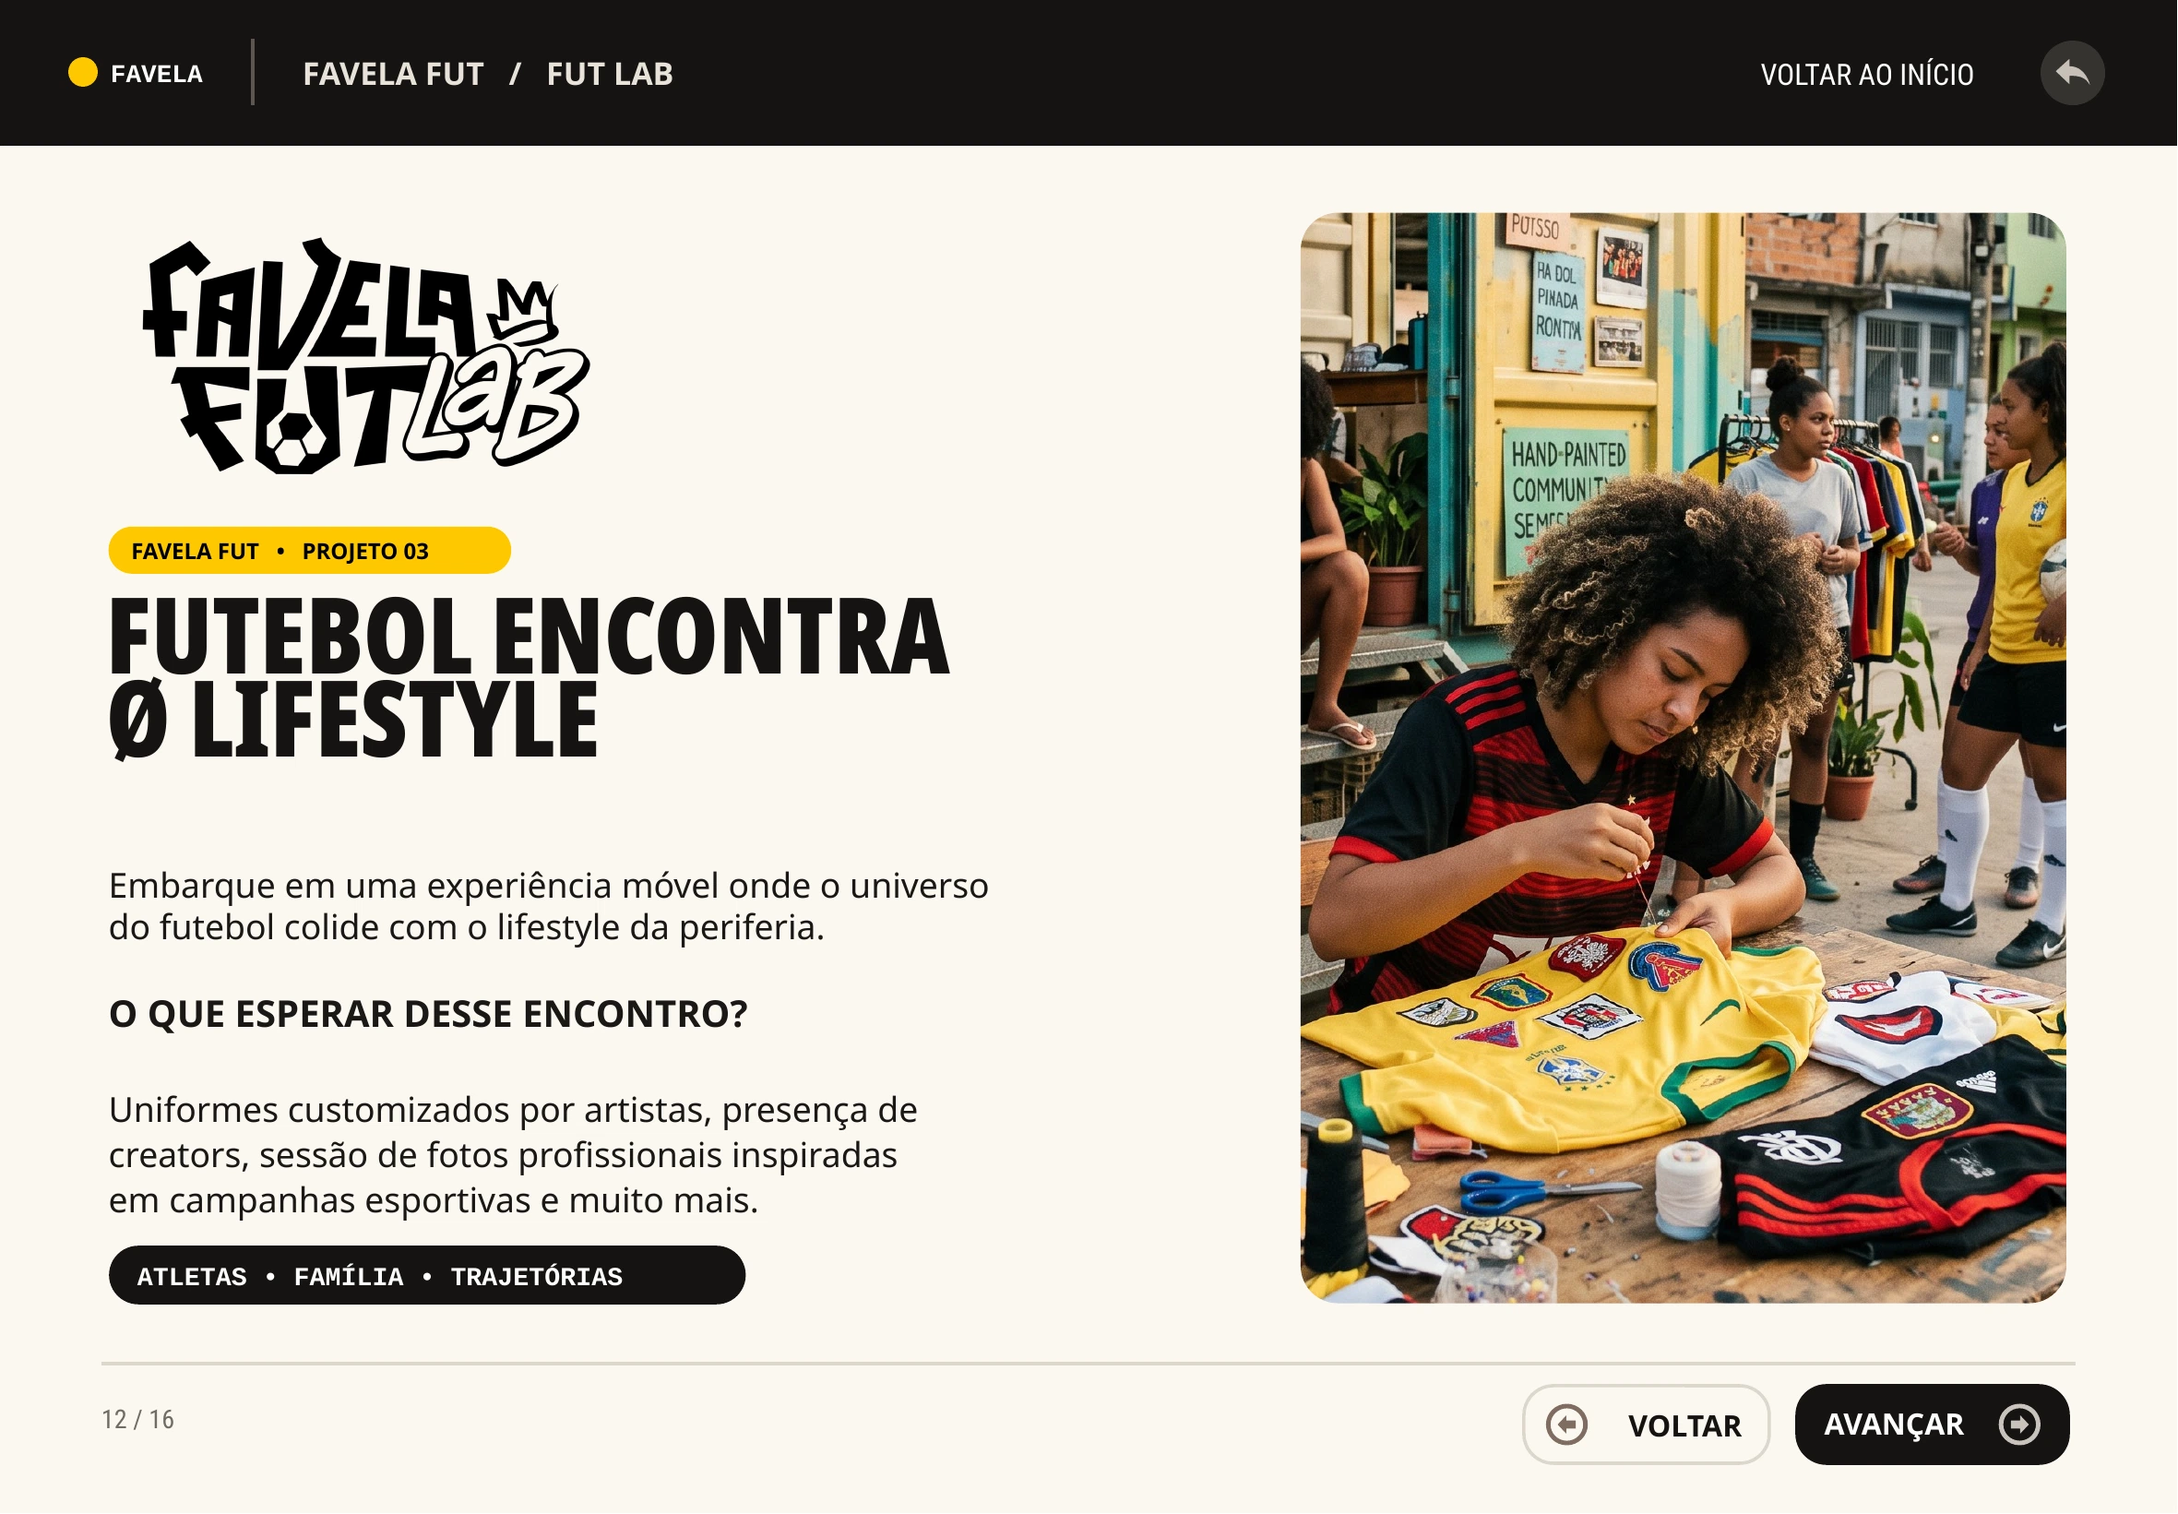
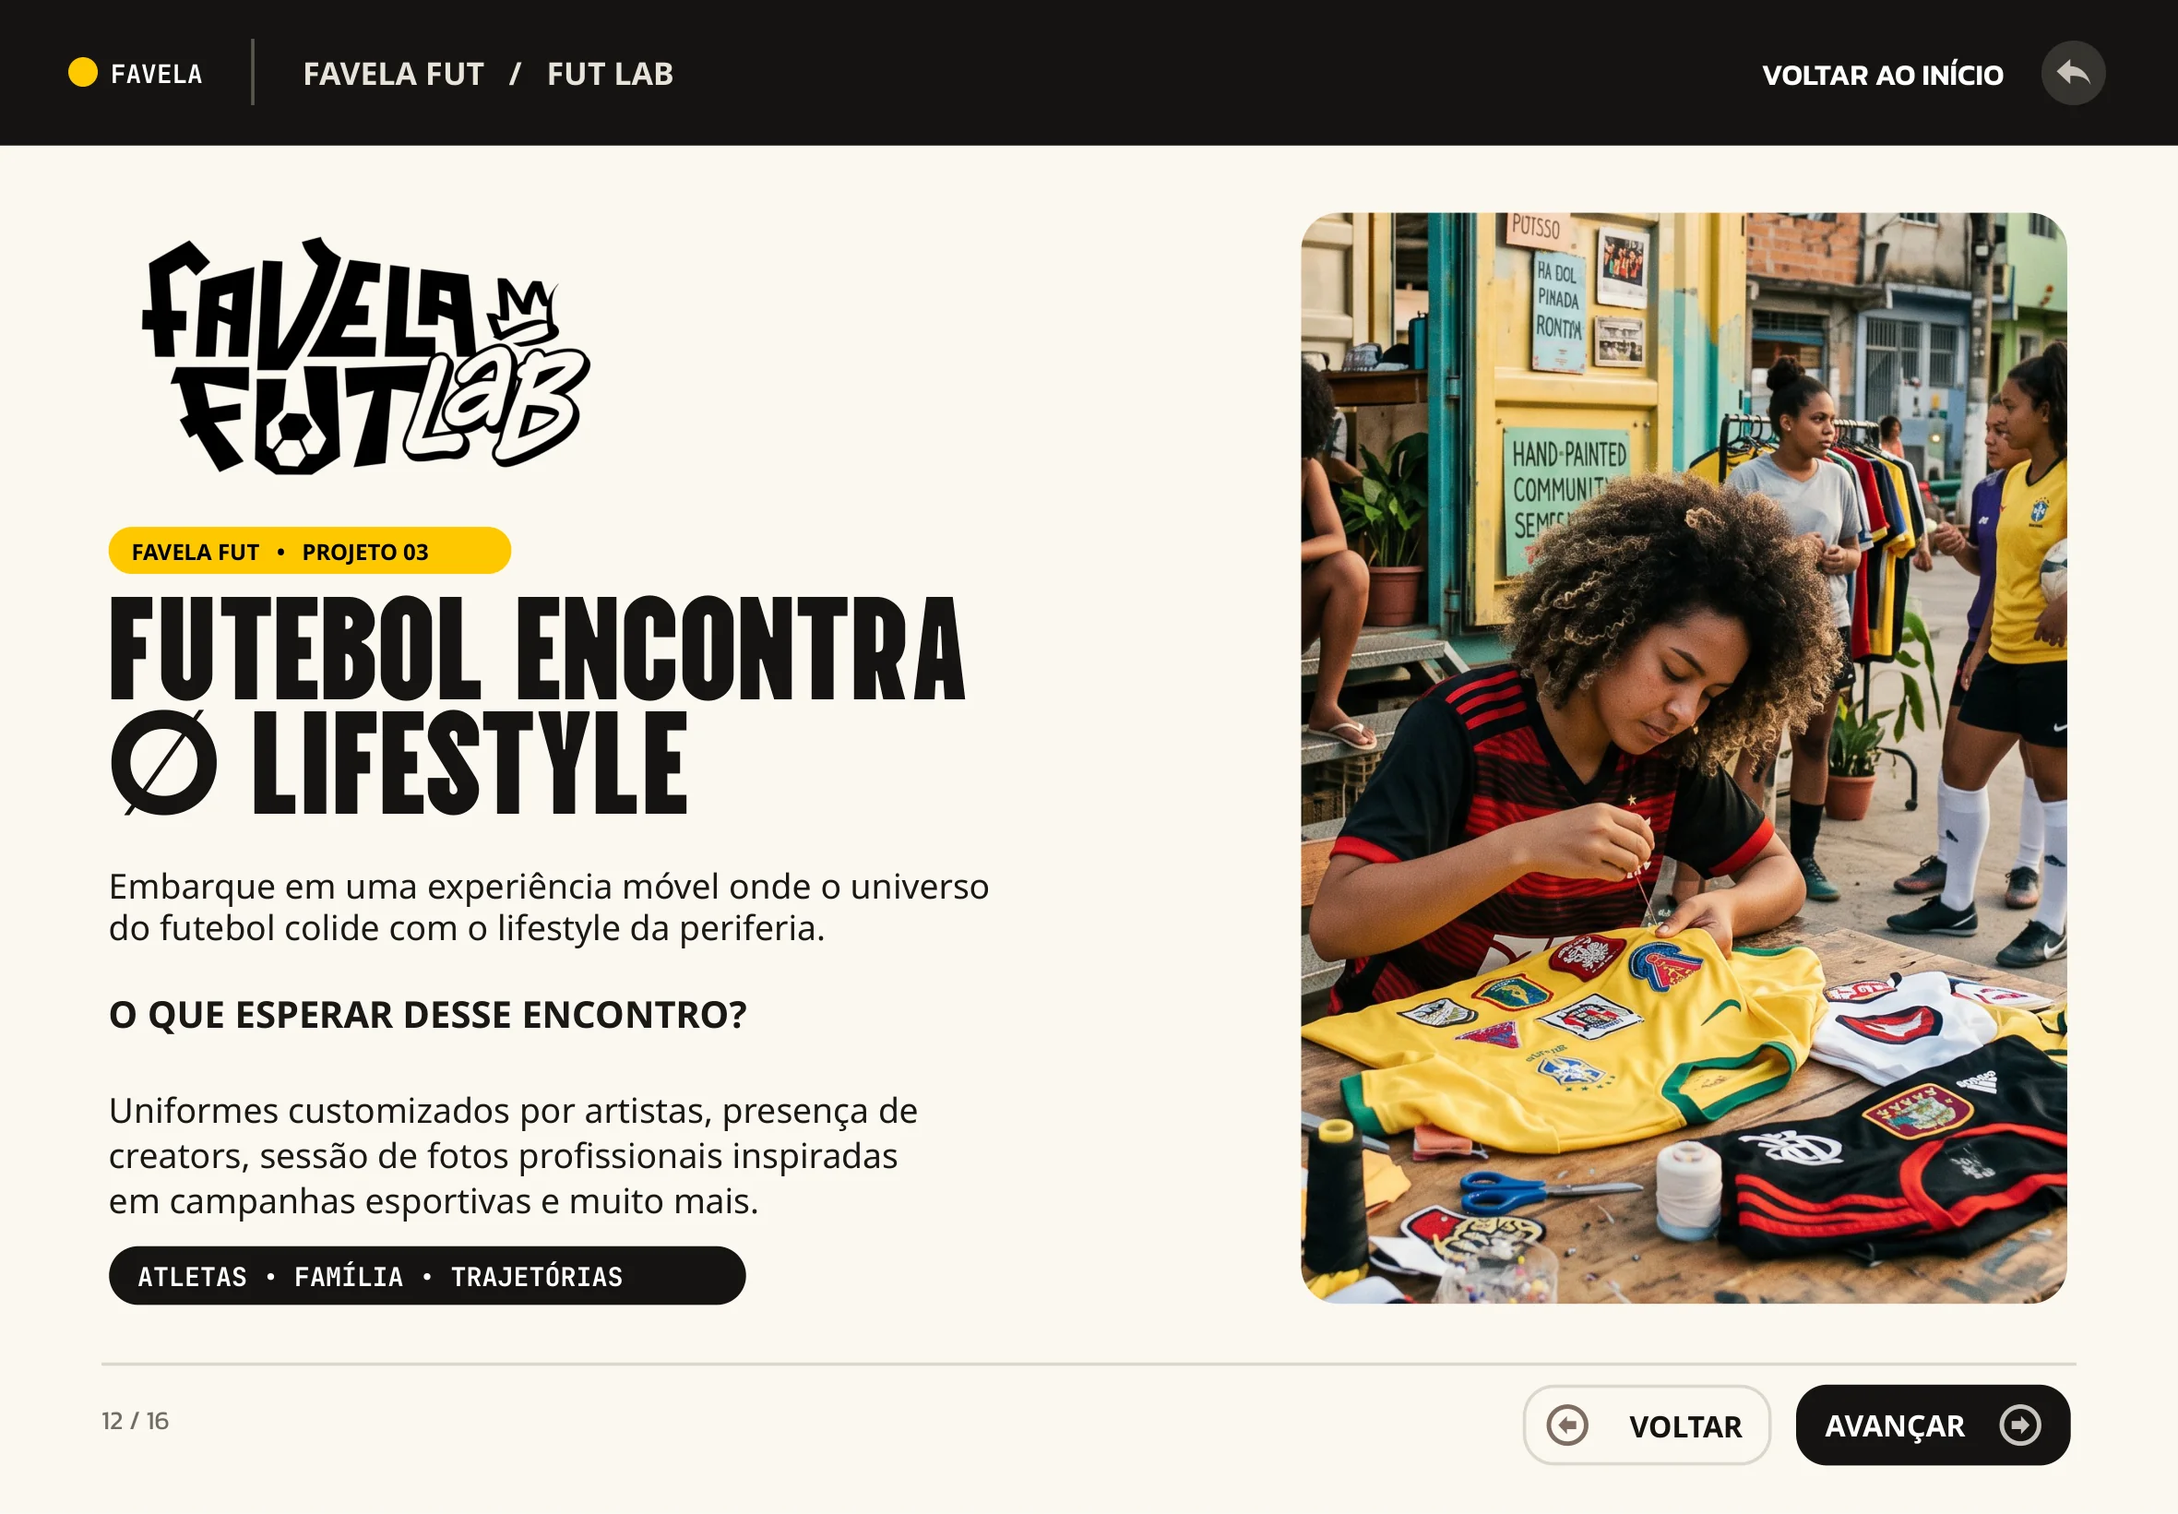
feat: restore Vina Sans and add subtle UI motion (showcase v2)

diff --git a/app.js b/app.js
@@ -1,10 +1,11 @@
 /*
- * Favela • Interactive Showcase
- * Apresentação sem dependências externas, pronta para Netlify e iPad.
- * Os hotspots de cada tela podem ser editados no arquivo slides.js.
+ * Favela • Interactive Showcase v2
+ * Telas fiéis ao PPTX e microinterações leves, 100% locais.
+ * As áreas clicáveis ficam em slides.js.
  */
 (() => {
   'use strict';
+
   const slides = window.SHOWCASE_SLIDES || [];
   const image = document.getElementById('slideImage');
   const stage = document.getElementById('stage');
@@ -13,15 +14,17 @@
   const connectionStatus = document.getElementById('connectionStatus');
   if (!slides.length || !image || !stage || !hotspots) return;
 
-  // Configurações: 180 segundos sem interação levam de volta à abertura.
-  // Ajuste para 0 se não quiser retorno automático.
   const AUTO_RESET_SECONDS = 180;
   const ENABLE_SWIPE = true;
   const ENABLE_KEYBOARD = true;
+  const MOTION_DURATION_MS = 280;
+  const reducedMotion = window.matchMedia('(prefers-reduced-motion: reduce)');
+
   let currentIndex = 0;
   let idleTimer = null;
   let imageSwitch = 0;
   let swipeStart = null;
+  let ghost = null;
 
   const clamp = (value) => Math.min(slides.length - 1, Math.max(0, value));
   const getHashIndex = () => {
@@ -33,8 +36,7 @@
   const pathFor = (index) => slides[index]?.image;
 
   function loadNearby(index) {
-    const nextIndices = [index - 1, index + 1, 1];
-    nextIndices.forEach((candidate) => {
+    [index - 1, index + 1, 1].forEach((candidate) => {
       if (candidate < 0 || candidate >= slides.length) return;
       const preview = new Image();
       preview.src = pathFor(candidate);
@@ -50,6 +52,20 @@
     }, AUTO_RESET_SECONDS * 1000);
   }
 
+  function touchFeedback(event, kind) {
+    if (reducedMotion.matches || kind === 'feature') return;
+    const rect = stage.getBoundingClientRect();
+    const x = event.clientX - rect.left;
+    const y = event.clientY - rect.top;
+    if (!Number.isFinite(x) || !Number.isFinite(y)) return;
+    const ripple = document.createElement('span');
+    ripple.className = 'touch-ripple';
+    ripple.style.left = `${x}px`;
+    ripple.style.top = `${y}px`;
+    stage.appendChild(ripple);
+    ripple.addEventListener('animationend', () => ripple.remove(), { once: true });
+  }
+
   function setHotspots(page) {
     const fragment = document.createDocumentFragment();
     page.actions.forEach((action) => {
@@ -62,29 +78,72 @@
       control.style.top = `${action.y}%`;
       control.style.width = `${action.w}%`;
       control.style.height = `${action.h}%`;
+      control.addEventListener('pointerdown', (event) => touchFeedback(event, action.kind), { passive: true });
       control.addEventListener('click', () => navigateTo(action.go));
       fragment.appendChild(control);
     });
     hotspots.replaceChildren(fragment);
   }
 
+  function removeGhost() {
+    if (ghost) ghost.remove();
+    ghost = null;
+    image.classList.remove('motion-enter');
+    stage.classList.remove('is-transitioning');
+  }
+
+  function animateSlide(nextSrc, direction, switchToken, onComplete) {
+    const incoming = new Image();
+    let completed = false;
+    incoming.onload = () => {
+      if (switchToken !== imageSwitch || completed) return;
+      completed = true;
+      removeGhost();
+      const animate = !reducedMotion.matches && image.getAttribute('src') !== nextSrc;
+      if (animate) {
+        ghost = document.createElement('img');
+        ghost.src = image.getAttribute('src');
+        ghost.alt = '';
+        ghost.setAttribute('aria-hidden', 'true');
+        ghost.className = 'slide-image slide-image--ghost';
+        stage.insertBefore(ghost, image);
+        stage.dataset.direction = direction;
+        stage.classList.add('is-transitioning');
+      }
+      image.src = nextSrc;
+      onComplete();
+      if (animate) {
+        // Reinicia a animação de entrada mesmo após navegações rápidas.
+        void image.offsetWidth;
+        image.classList.add('motion-enter');
+        ghost.classList.add('motion-exit');
+        window.setTimeout(() => {
+          if (switchToken === imageSwitch) removeGhost();
+        }, MOTION_DURATION_MS + 70);
+      }
+    };
+    incoming.onerror = () => {
+      if (switchToken !== imageSwitch) return;
+      connectionStatus.textContent = 'Não foi possível carregar esta tela. Verifique os arquivos da publicação.';
+    };
+    incoming.src = nextSrc;
+    if (incoming.complete && incoming.naturalWidth) incoming.onload();
+  }
+
   function navigateTo(requestedIndex, options = {}) {
     const index = clamp(requestedIndex);
     const page = slides[index];
     if (!page) return;
+    const previousIndex = currentIndex;
     currentIndex = index;
-    imageSwitch += 1;
-    const thisSwitch = imageSwitch;
-
+    const switchToken = ++imageSwitch;
     const nextSrc = pathFor(index);
     const alt = `${page.title}. Tela ${page.id} de ${slides.length}.`;
-    image.alt = alt;
+
     document.title = `${page.title} | Favela Showcase`;
     document.body.dataset.section = page.section;
     transcript.textContent = `${alt} ${page.transcript || ''}`;
-    setHotspots(page);
 
-    // Usa #tela-01 para permitir compartilhar ou recuperar a tela atual.
     const newHash = `#tela-${String(index + 1).padStart(2, '0')}`;
     if (location.hash !== newHash) {
       if (options.pushHistory) history.pushState({}, '', newHash);
@@ -92,20 +151,15 @@
     }
 
     if (image.getAttribute('src') !== nextSrc) {
-      image.classList.add('is-changing');
-      const loader = new Image();
-      loader.onload = () => {
-        if (thisSwitch !== imageSwitch) return;
-        image.src = nextSrc;
-        requestAnimationFrame(() => image.classList.remove('is-changing'));
-      };
-      loader.onerror = () => {
-        if (thisSwitch !== imageSwitch) return;
-        image.src = nextSrc;
-        image.classList.remove('is-changing');
-        connectionStatus.textContent = 'Não foi possível carregar esta tela. Verifique os arquivos da publicação.';
-      };
-      loader.src = nextSrc;
+      const isSectionChange = index === 0 || index === 1 || [2, 7, 13].includes(index);
+      const direction = isSectionChange ? 'section' : (index >= previousIndex ? 'next' : 'previous');
+      animateSlide(nextSrc, direction, switchToken, () => {
+        image.alt = alt;
+        setHotspots(page);
+      });
+    } else {
+      image.alt = alt;
+      setHotspots(page);
     }
     loadNearby(index);
     resetInactivityTimer();
@@ -113,17 +167,16 @@
 
   if (ENABLE_KEYBOARD) {
     document.addEventListener('keydown', (event) => {
-      const key = event.key;
-      if (key === 'ArrowRight' || key === 'PageDown') {
+      if (event.key === 'ArrowRight' || event.key === 'PageDown') {
         if (currentIndex !== 1) navigateTo(currentIndex + 1);
         event.preventDefault();
-      } else if (key === 'ArrowLeft' || key === 'PageUp') {
+      } else if (event.key === 'ArrowLeft' || event.key === 'PageUp') {
         if (currentIndex > 0 && currentIndex !== 1) navigateTo(currentIndex - 1);
         event.preventDefault();
-      } else if (key === 'Escape' || key === 'Home') {
+      } else if (event.key === 'Escape' || event.key === 'Home') {
         navigateTo(1);
         event.preventDefault();
-      } else if ((key === 'Enter' || key === ' ') && currentIndex === 0 && document.activeElement === document.body) {
+      } else if ((event.key === 'Enter' || event.key === ' ') && currentIndex === 0 && document.activeElement === document.body) {
         navigateTo(1);
         event.preventDefault();
       }
@@ -142,14 +195,13 @@
       const dy = event.changedTouches[0].clientY - swipeStart.y;
       swipeStart = null;
       if (Math.abs(dx) < 55 || Math.abs(dx) < Math.abs(dy) * 1.25) return;
-      if (currentIndex === 1) return; // menu: navegue pelos cards
+      if (currentIndex === 1) return; // Menu principal: usar os três cards
       event.preventDefault();
       navigateTo(currentIndex + (dx < 0 ? 1 : -1));
     }, { passive: false });
     stage.addEventListener('touchcancel', () => { swipeStart = null; }, { passive: true });
   }
 
-  // Volta à tela inicial ao acessar um novo link de fragmento / usar botões do navegador.
   window.addEventListener('hashchange', () => navigateTo(getHashIndex()));
   window.addEventListener('popstate', () => navigateTo(getHashIndex()));
   ['pointerdown', 'touchstart'].forEach((eventType) => {

diff --git a/styles.css b/styles.css
@@ -2,6 +2,8 @@
   --screen-ratio: 1.4390243902;
   --brand-orange: #f47a22;
   --outer-background: #111;
+  --motion-duration: 280ms;
+  --motion-easing: cubic-bezier(.2,.7,.2,1);
 }
 *, *::before, *::after { box-sizing: border-box; }
 html, body { width: 100%; height: 100%; padding: 0; margin: 0; }
@@ -42,13 +44,27 @@ body { font-family: -apple-system, BlinkMacSystemFont, "Segoe UI", Arial, sans-s
   pointer-events: none;
   -webkit-user-drag: none;
   opacity: 1;
-  transition: opacity 130ms ease;
+  backface-visibility: hidden;
+  will-change: opacity, transform;
 }
-.slide-image.is-changing { opacity: .65; }
+.slide-image--ghost { z-index: 0; }
+#slideImage { z-index: 1; }
+.stage[data-direction="next"] .slide-image.motion-enter { animation: slide-in-next var(--motion-duration) var(--motion-easing) both; }
+.stage[data-direction="next"] .slide-image.motion-exit { animation: slide-out-next var(--motion-duration) var(--motion-easing) both; }
+.stage[data-direction="previous"] .slide-image.motion-enter { animation: slide-in-previous var(--motion-duration) var(--motion-easing) both; }
+.stage[data-direction="previous"] .slide-image.motion-exit { animation: slide-out-previous var(--motion-duration) var(--motion-easing) both; }
+.stage[data-direction="section"] .slide-image.motion-enter { animation: section-in 260ms var(--motion-easing) both; }
+.stage[data-direction="section"] .slide-image.motion-exit { animation: section-out 260ms var(--motion-easing) both; }
+@keyframes slide-in-next { from { opacity: .05; transform: translate3d(18px,0,0); } to { opacity: 1; transform: translate3d(0,0,0); } }
+@keyframes slide-out-next { from { opacity: 1; transform: translate3d(0,0,0); } to { opacity: 0; transform: translate3d(-10px,0,0); } }
+@keyframes slide-in-previous { from { opacity: .05; transform: translate3d(-18px,0,0); } to { opacity: 1; transform: translate3d(0,0,0); } }
+@keyframes slide-out-previous { from { opacity: 1; transform: translate3d(0,0,0); } to { opacity: 0; transform: translate3d(10px,0,0); } }
+@keyframes section-in { from { opacity: .05; transform: scale(1.013); } to { opacity: 1; transform: scale(1); } }
+@keyframes section-out { from { opacity: 1; transform: scale(1); } to { opacity: 0; transform: scale(.992); } }
 .hotspots {
   position: absolute;
   inset: 0;
-  z-index: 2;
+  z-index: 3;
   pointer-events: none;
 }
 .hotspot {
@@ -56,8 +72,8 @@ body { font-family: -apple-system, BlinkMacSystemFont, "Segoe UI", Arial, sans-s
   display: block;
   margin: 0;
   padding: 0;
-  border: 2px solid transparent;
-  border-radius: min(9px, 0.6vw);
+  border: 1px solid transparent;
+  border-radius: min(10px, 0.6vw);
   appearance: none;
   background: transparent;
   cursor: pointer;
@@ -65,24 +81,40 @@ body { font-family: -apple-system, BlinkMacSystemFont, "Segoe UI", Arial, sans-s
   -webkit-tap-highlight-color: transparent;
   pointer-events: auto;
   touch-action: manipulation;
+  transition: background 160ms ease, border-color 160ms ease, box-shadow 160ms ease;
 }
-.hotspot--screen {
-  border: 0;
-  border-radius: 0;
-}
+.hotspot--screen, .hotspot--feature { border: 0; border-radius: 0; }
 .hotspot:focus-visible {
   outline: 3px solid #ff7418;
   outline-offset: -4px;
   background: rgba(244, 122, 34, .12);
 }
-.hotspot:active:not(.hotspot--screen) {
-  background: rgba(244, 122, 34, .15);
+.hotspot:active:not(.hotspot--screen):not(.hotspot--feature) {
+  background: rgba(244, 122, 34, .13);
+  border-color: rgba(244, 122, 34, .3);
+  box-shadow: inset 0 0 0 1px rgba(244,122,34,.12);
 }
 @media (hover:hover) and (pointer:fine) {
-  .hotspot:hover:not(.hotspot--screen) {
-    background: rgba(244, 122, 34, .075);
-    border-color: rgba(244, 122, 34, .2);
+  .hotspot:hover:not(.hotspot--screen):not(.hotspot--feature) {
+    background: rgba(244, 122, 34, .065);
+    border-color: rgba(244, 122, 34, .16);
   }
+}
+.touch-ripple {
+  position: absolute;
+  z-index: 4;
+  width: 12px;
+  height: 12px;
+  border-radius: 50%;
+  margin: -6px 0 0 -6px;
+  pointer-events: none;
+  border: 2px solid rgba(247, 119, 26, .45);
+  background: rgba(255,255,255,.1);
+  animation: touch-response 340ms ease-out both;
+}
+@keyframes touch-response {
+  from { transform: scale(.6); opacity: .65; }
+  to { transform: scale(5.5); opacity: 0; }
 }
 .rotate-hint {
   display: none;
@@ -116,5 +148,6 @@ body { font-family: -apple-system, BlinkMacSystemFont, "Segoe UI", Arial, sans-s
   .rotate-hint { display: flex; }
 }
 @media (prefers-reduced-motion:reduce) {
-  .slide-image { transition: none; }
+  *, *::before, *::after { animation: none !important; transition: none !important; }
+  .touch-ripple { display: none; }
 }

diff --git a/service-worker.js b/service-worker.js
@@ -1,5 +1,5 @@
 /* PWA offline: aumentar a versão quando atualizar imagens ou conteúdo. */
-const CACHE_VERSION = 'favela-showcase-v1.0.0';
+const CACHE_VERSION = 'favela-showcase-v2.0.0';
 const SLIDE_ASSETS = Array.from({ length: 17 }, (_, index) =>
   `./assets/slides/tela-${String(index + 1).padStart(2, '0')}.webp`
 );

diff --git a/README.md b/README.md
@@ -1,3 +1,12 @@
+# Favela • Interactive Showcase v2
+
+> **Atualizações v2 (19/10/2026)**
+> - 17 telas renderizadas novamente a partir do PowerPoint original, usando a fonte **Vina Sans** incorporada ao arquivo.
+> - Nova transição leve (fade + movimento de 18px, ~280 ms); mudanças de projeto com fade + zoom discreto.
+> - Feedback de toque nos botões e suporte a `prefers-reduced-motion`.
+> - Cache offline renovado (`favela-showcase-v2.0.0`), sem carregar fontes ou scripts externos.
+> - Os textos e a tipografia fazem parte das imagens exportadas. Não é necessário distribuir um arquivo de fonte no site.
+
 # Favela • Interactive Showcase
 
 Versão HTML interativa da apresentação `[int] YouTube Fair 2026 - FAVELA _ Interactive Showcase.pptx`, adaptada para **iPad de 10ª geração em orientação horizontal**. Nenhuma dependência de frameworks, bibliotecas externas ou API.
